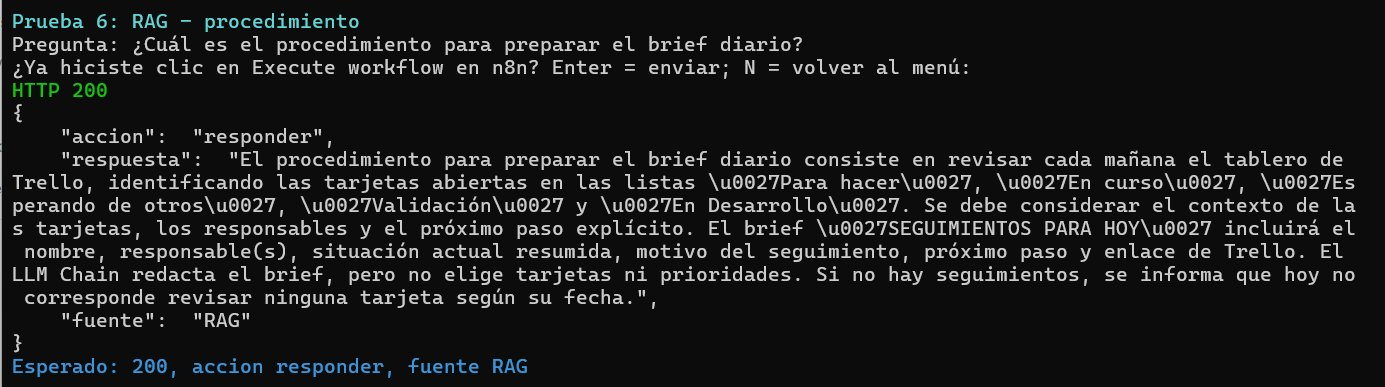
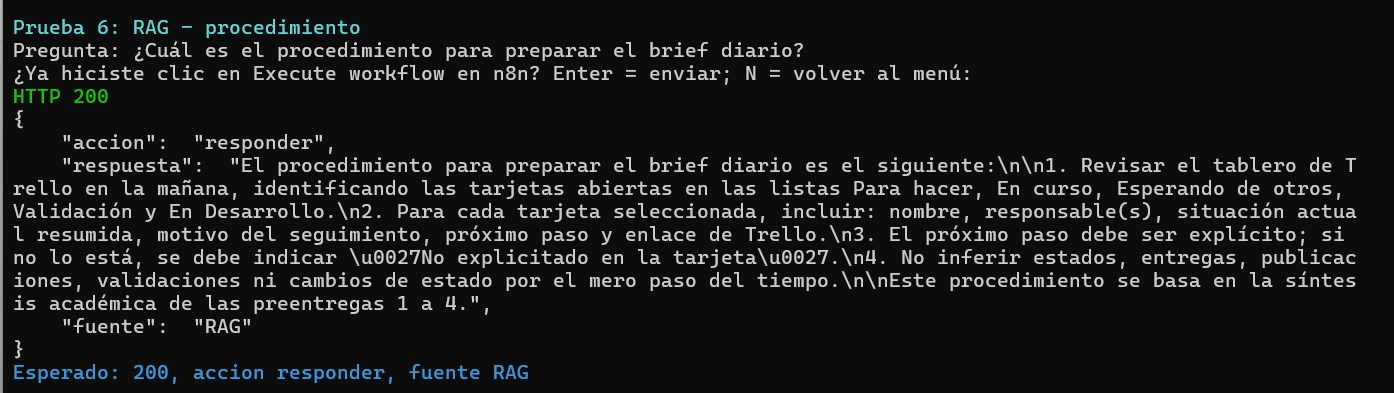
Actualizar capturas definitivas de n8n y anonimizar evidencia del brief

Changed region(s): [[0.0, 0.3411, 0.9935, 0.8682], [0.0, 0.031, 0.7141, 0.3411], [0.0, 0.8682, 0.4036, 0.9922]]

diff --git a/capturas/LEER.md b/capturas/LEER.md
@@ -1,27 +1,27 @@
-# Evidencias reales de n8n
+# Evidencias reales de n8n — versión definitiva
 
-Las siguientes imágenes proceden de capturas de pantalla **reales** compartidas durante las pruebas. No son recreaciones ni ejecuciones automáticas de GitHub.
+Las tres imágenes proceden de capturas **reales de la versión definitiva** compartidas por el autor. No se fabricaron ejecuciones ni resultados. La imagen del brief fue anonimizada antes de publicarla.
 
-## 1. Prueba de RAG — HTTP 200
+## 1. Canvas del workflow definitivo — 58 nodos
 
-![Resultado de la prueba 6: HTTP 200, accion responder, fuente RAG](prueba-6-rag.jpg)
+![Vista general del workflow definitivo de n8n, 58 nodos](workflow-definitivo-58-nodos.jpg)
 
-La captura corresponde a una ejecución del recorrido documental con `fuente: RAG`. La última versión se volvió a probar posteriormente con los mismos campos y HTTP 200; el texto de la respuesta puede variar entre ejecuciones.
+Se observan los tres disparadores (Webhook, Schedule y Manual Trigger), el circuito de lectura de Trello, el AI Agent con Ollama y RAG, el normalizador del JSON y la ruta de previsualización del brief. Esta captura **reemplaza la imagen anterior del canvas**, correspondiente a una etapa previa.
 
-## 2. Previsualización del brief — sin correo
+## 2. Prueba 6 — RAG con HTTP 200
 
-![Nodo FIN - previsualización y envío bloqueado con cobertura completa](previsualizacion-brief-anonimizada.jpg)
+![Ejecución real de prueba 6, HTTP 200, acción responder y fuente RAG](prueba-6-rag.jpg)
 
-Captura real del nodo `FIN - previsualización y envío bloqueado`, con `cobertura_completa: true` y `respaldo_deterministico: true`. **El cuerpo del correo fue ocultado deliberadamente** para proteger nombres, enlaces y detalles internos. No se envió Gmail en esta prueba.
+Pregunta: «¿Cuál es el procedimiento para preparar el brief diario?». Salida real: `accion: responder`, `fuente: RAG`, HTTP 200. La respuesta describe el procedimiento basado en las síntesis académicas del proyecto.
 
-## 3. Vista general del canvas (versión previa)
+## 3. Brief diario — previsualización sin Gmail
 
-![Canvas general de n8n durante el desarrollo](canvas-version-previa.jpg)
+![Nodo FIN de previsualización del brief, envío bloqueado](previsualizacion-brief-anonimizada.jpg)
 
-Captura del workflow **durante el desarrollo**, anterior a la última normalización JSON. **La exportación definitiva de 58 nodos**, en [workflow/asistente-trello-ollama-rag.json](../workflow/asistente-trello-ollama-rag.json), es la referencia estructural final.
+El nodo `FIN - previsualización y envío bloqueado` concluyó correctamente. Sus indicadores fueron `cobertura_completa: true` y `respaldo_deterministico: true`. **Se ocultó el cuerpo del correo** para evitar divulgar personas, tareas y enlaces de Trello. No se envió Gmail.
 
-## Privacidad y límites
+## Privacidad y alcance
 
-No publicar imágenes que contengan credenciales, claves, datos de personas, descripciones operativas municipales ni enlaces privados de Trello. Las capturas se muestran con alcance y etiquetas explícitas; no implican despliegue a Internet ni reemplazan la ejecución local reproducible.
+La captura del brief contiene una intervención de anonimización claramente indicada; los estados y los indicadores del nodo son de la ejecución real. La copia del workflow publicada en [workflow/](../workflow/asistente-trello-ollama-rag.json) omite credenciales y sustituye los IDs privados por marcadores.
 
-Para ver salidas resumidas y resultados adicionales: [tests/EVIDENCIAS-SANITIZADAS.md](../tests/EVIDENCIAS-SANITIZADAS.md).
+Las capturas **no implican** que WhatsApp/Meta esté integrado o que n8n esté desplegado en una URL pública. Ver también [resultados de pruebas](../tests/RESULTADOS-REALES.md) y [salidas de consola anonimizadas](../tests/EVIDENCIAS-SANITIZADAS.md).

diff --git a/README.md b/README.md
@@ -368,7 +368,7 @@ Se generó un **brief de 10 tarjetas**, con `cobertura_completa: true` y `respal
 
 ## 9. Evidencias y limitaciones
 
-La carpeta [capturas/](capturas/LEER.md) incluye **tres evidencias gráficas reales**: prueba RAG con HTTP 200, previsualización del brief con contenido interno oculto y una vista general del canvas marcada explícitamente como versión previa. No se publicaron nombres, detalles de tareas ni enlaces municipales en el cuerpo del correo. Las salidas de consola anonimizadas y los resultados escritos están en [tests/EVIDENCIAS-SANITIZADAS.md](tests/EVIDENCIAS-SANITIZADAS.md) y [tests/RESULTADOS-REALES.md](tests/RESULTADOS-REALES.md).
+La carpeta [capturas/](capturas/LEER.md) incluye **tres evidencias gráficas reales y actualizadas**: el canvas definitivo de 58 nodos, la previsualización del brief con el contenido interno oculto y la prueba RAG exitosa (HTTP 200, fuente `RAG`). No se publicaron nombres, detalles de tareas ni enlaces municipales en el cuerpo del correo. Las salidas de consola anonimizadas y los resultados escritos están en [tests/EVIDENCIAS-SANITIZADAS.md](tests/EVIDENCIAS-SANITIZADAS.md) y [tests/RESULTADOS-REALES.md](tests/RESULTADOS-REALES.md).
 
 **Limitaciones:** WhatsApp real/Meta no está integrado; el canal conversacional es un Webhook local simulado. El servidor no está publicado en una URL HTTPS externa. La base vectorial es de memoria, el brief probado fue una previsualización y el ahorro calculado es una estimación.
 

diff --git a/ENTREGA.md b/ENTREGA.md
@@ -33,6 +33,6 @@ La **prueba 6** de RAG se revalidó en el workflow final y devolvió HTTP 200, `
 
 No se implementó la integración oficial de WhatsApp/Meta ni un despliegue HTTPS público. El Vector Store se reconstruye en memoria; las credenciales y el tablero real no están incluidos en el repositorio; Gmail **no se ejecutó realmente**. El ROI de 16 h 40 min/mes (83,33 %) es una proyección académica, no ahorro observado en producción.
 
-Las capturas publicadas son auténticas: se ocultó el cuerpo interno del brief por privacidad, y la imagen general del canvas está rotulada como versión previa. Las evidencias escritas son transcripciones resumidas de ejecuciones reales, no capturas fabricadas.
+Las capturas publicadas son auténticas y corresponden a la versión final: canvas de 58 nodos, brief con contenido interno oculto por privacidad y salida RAG exitosa (HTTP 200). Las evidencias escritas son transcripciones resumidas de ejecuciones reales, no capturas fabricadas.
 
 **La copia pública requiere reconfiguración y no fue ejecutada nuevamente después de anonimizarla.**
